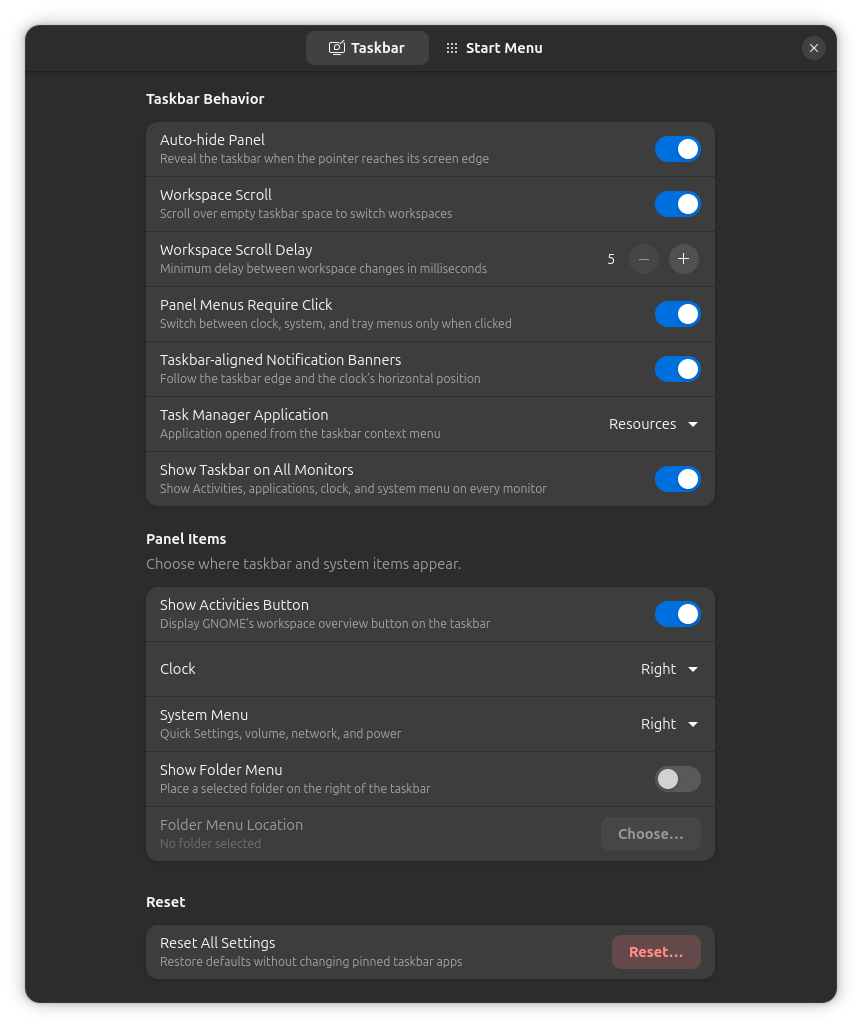
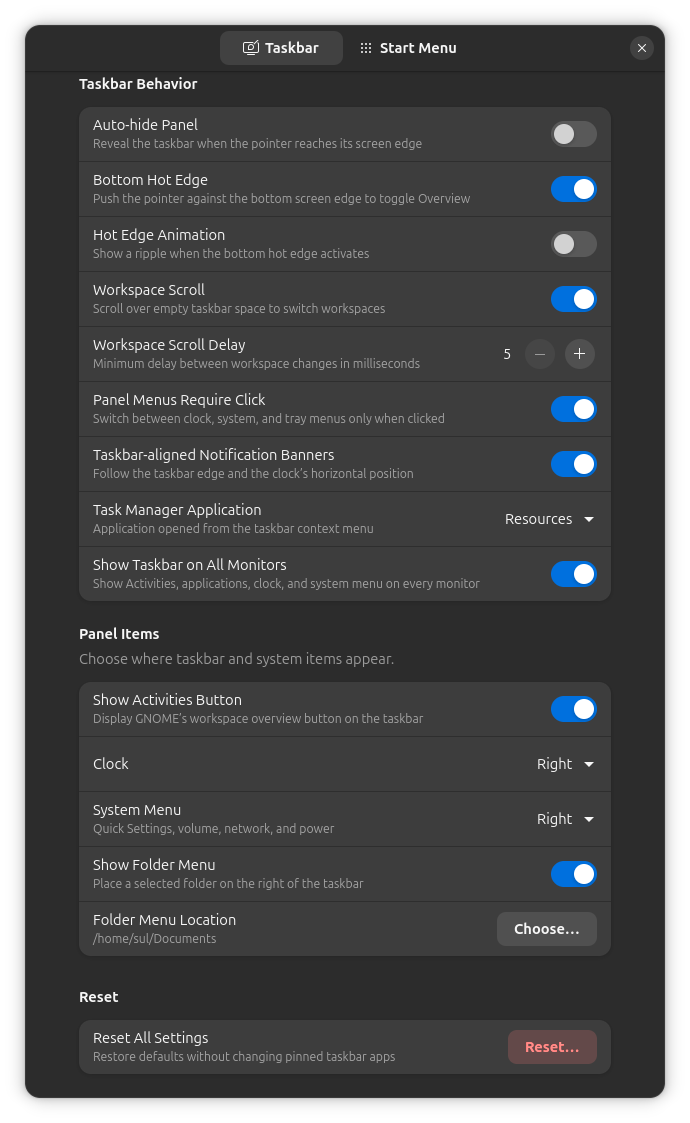
Update hot edge documentation

diff --git a/README.md b/README.md
@@ -31,6 +31,7 @@ those Shell components.
 - Move the clock and Quick Settings between the left, center and right.
 - Adjust panel height, icon size, spacing, transparency and colour scheme.
 - Use auto-hide, workspace scrolling and current-workspace isolation.
+- Push against the bottom screen edge to toggle Overview.
 - Open an Eleven-style Start Menu with pinned apps, search and recommendations.
 - Switch to a native GNOME-style panel whenever taskbar applications are not
   wanted.
@@ -118,6 +119,7 @@ The settings provide control over:
 - Light, dark or Shell-following themes.
 - Adjustable transparency and Blur My Shell integration on the primary panel.
 - Animated auto-hide on every panel.
+- A bottom hot edge that toggles Overview, with an optional ripple animation.
 - Workspace switching by scrolling over empty panel space.
 - Notification banners that follow the panel edge and clock alignment.
 - Click-only switching between open panel menus.
@@ -169,8 +171,12 @@ The Eleven-style Start Menu is enabled by default and includes:
   desktop shortcut.
 - Dark, light and GNOME Shell theme options.
 - Optional true monitor centering.
-- Optional Super, Super+Tab or custom keyboard shortcuts. Assigning Super to
-  the Start Menu moves the Overview shortcut to Super+Tab.
+- Super opens the Start Menu by default and moves Overview to Super+Tab. The
+  shortcut can instead use Super+Tab, a custom binding or be disabled.
+
+The bottom hot edge is enabled by default, providing another quick way to use
+Overview after its Super shortcut has moved. Its ripple animation is optional
+and disabled by default.
 
 The original GNOME Applications button can be restored instead, or both Start
 buttons can be hidden. Right-clicking the Eleven-style Start button opens its